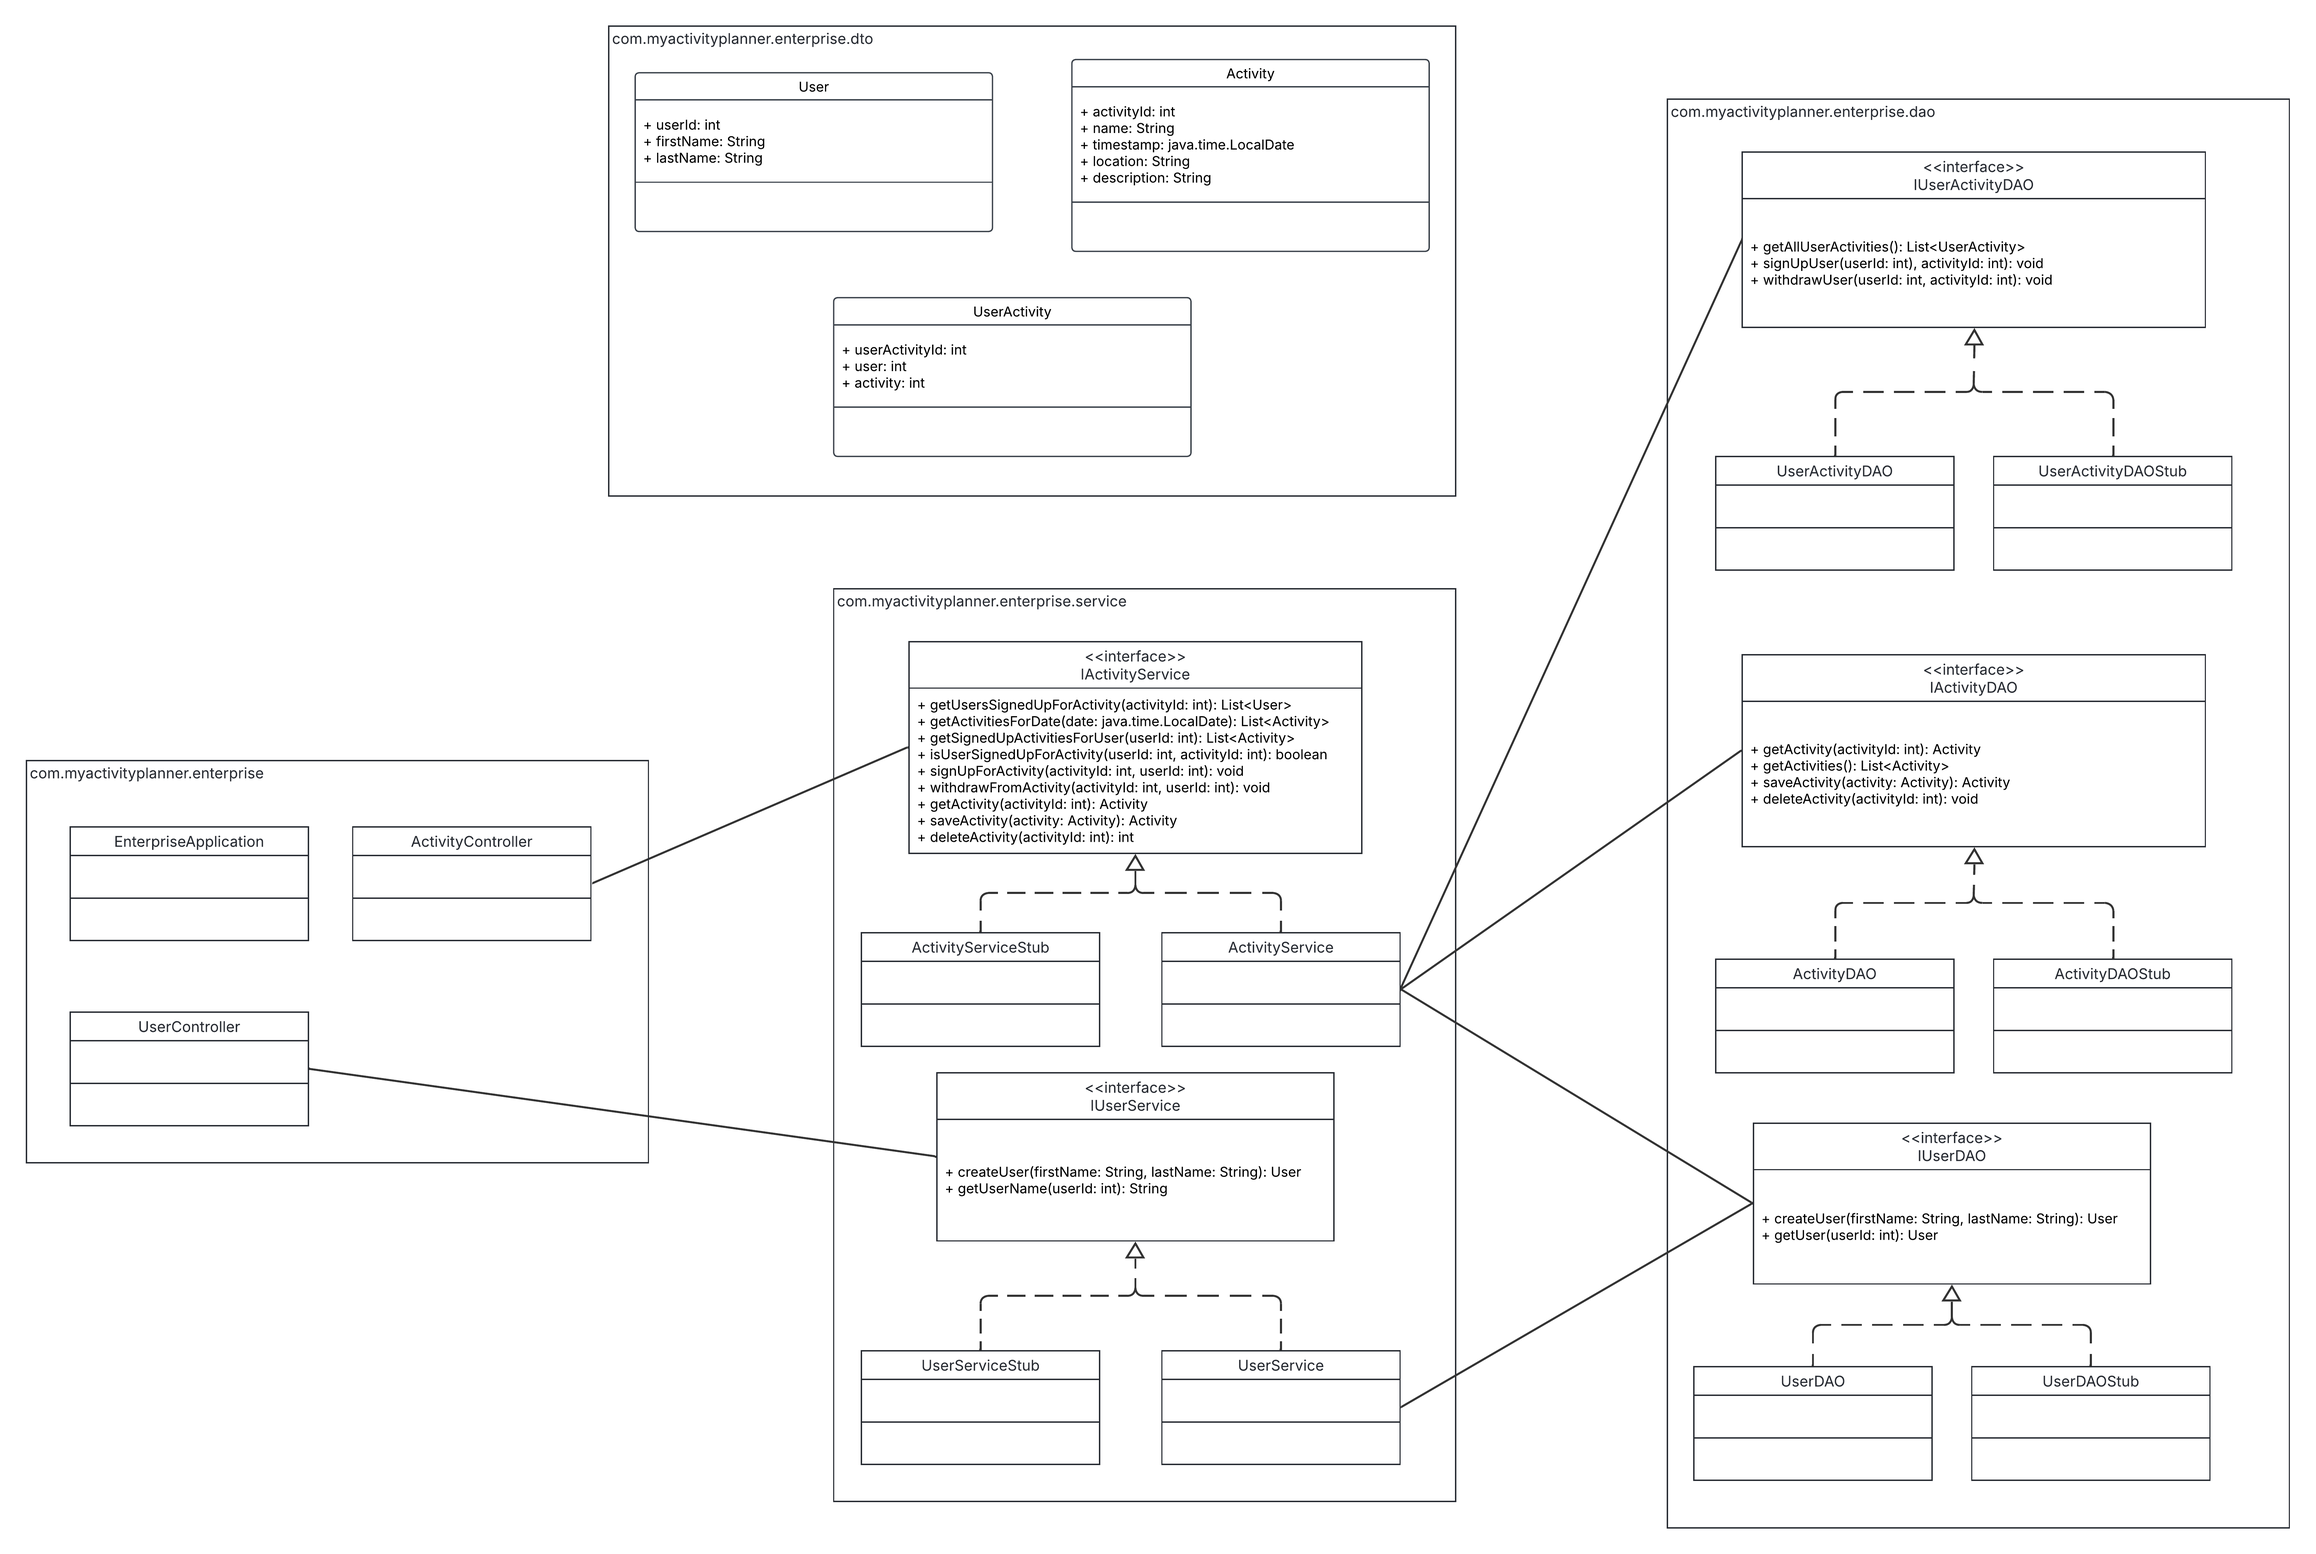
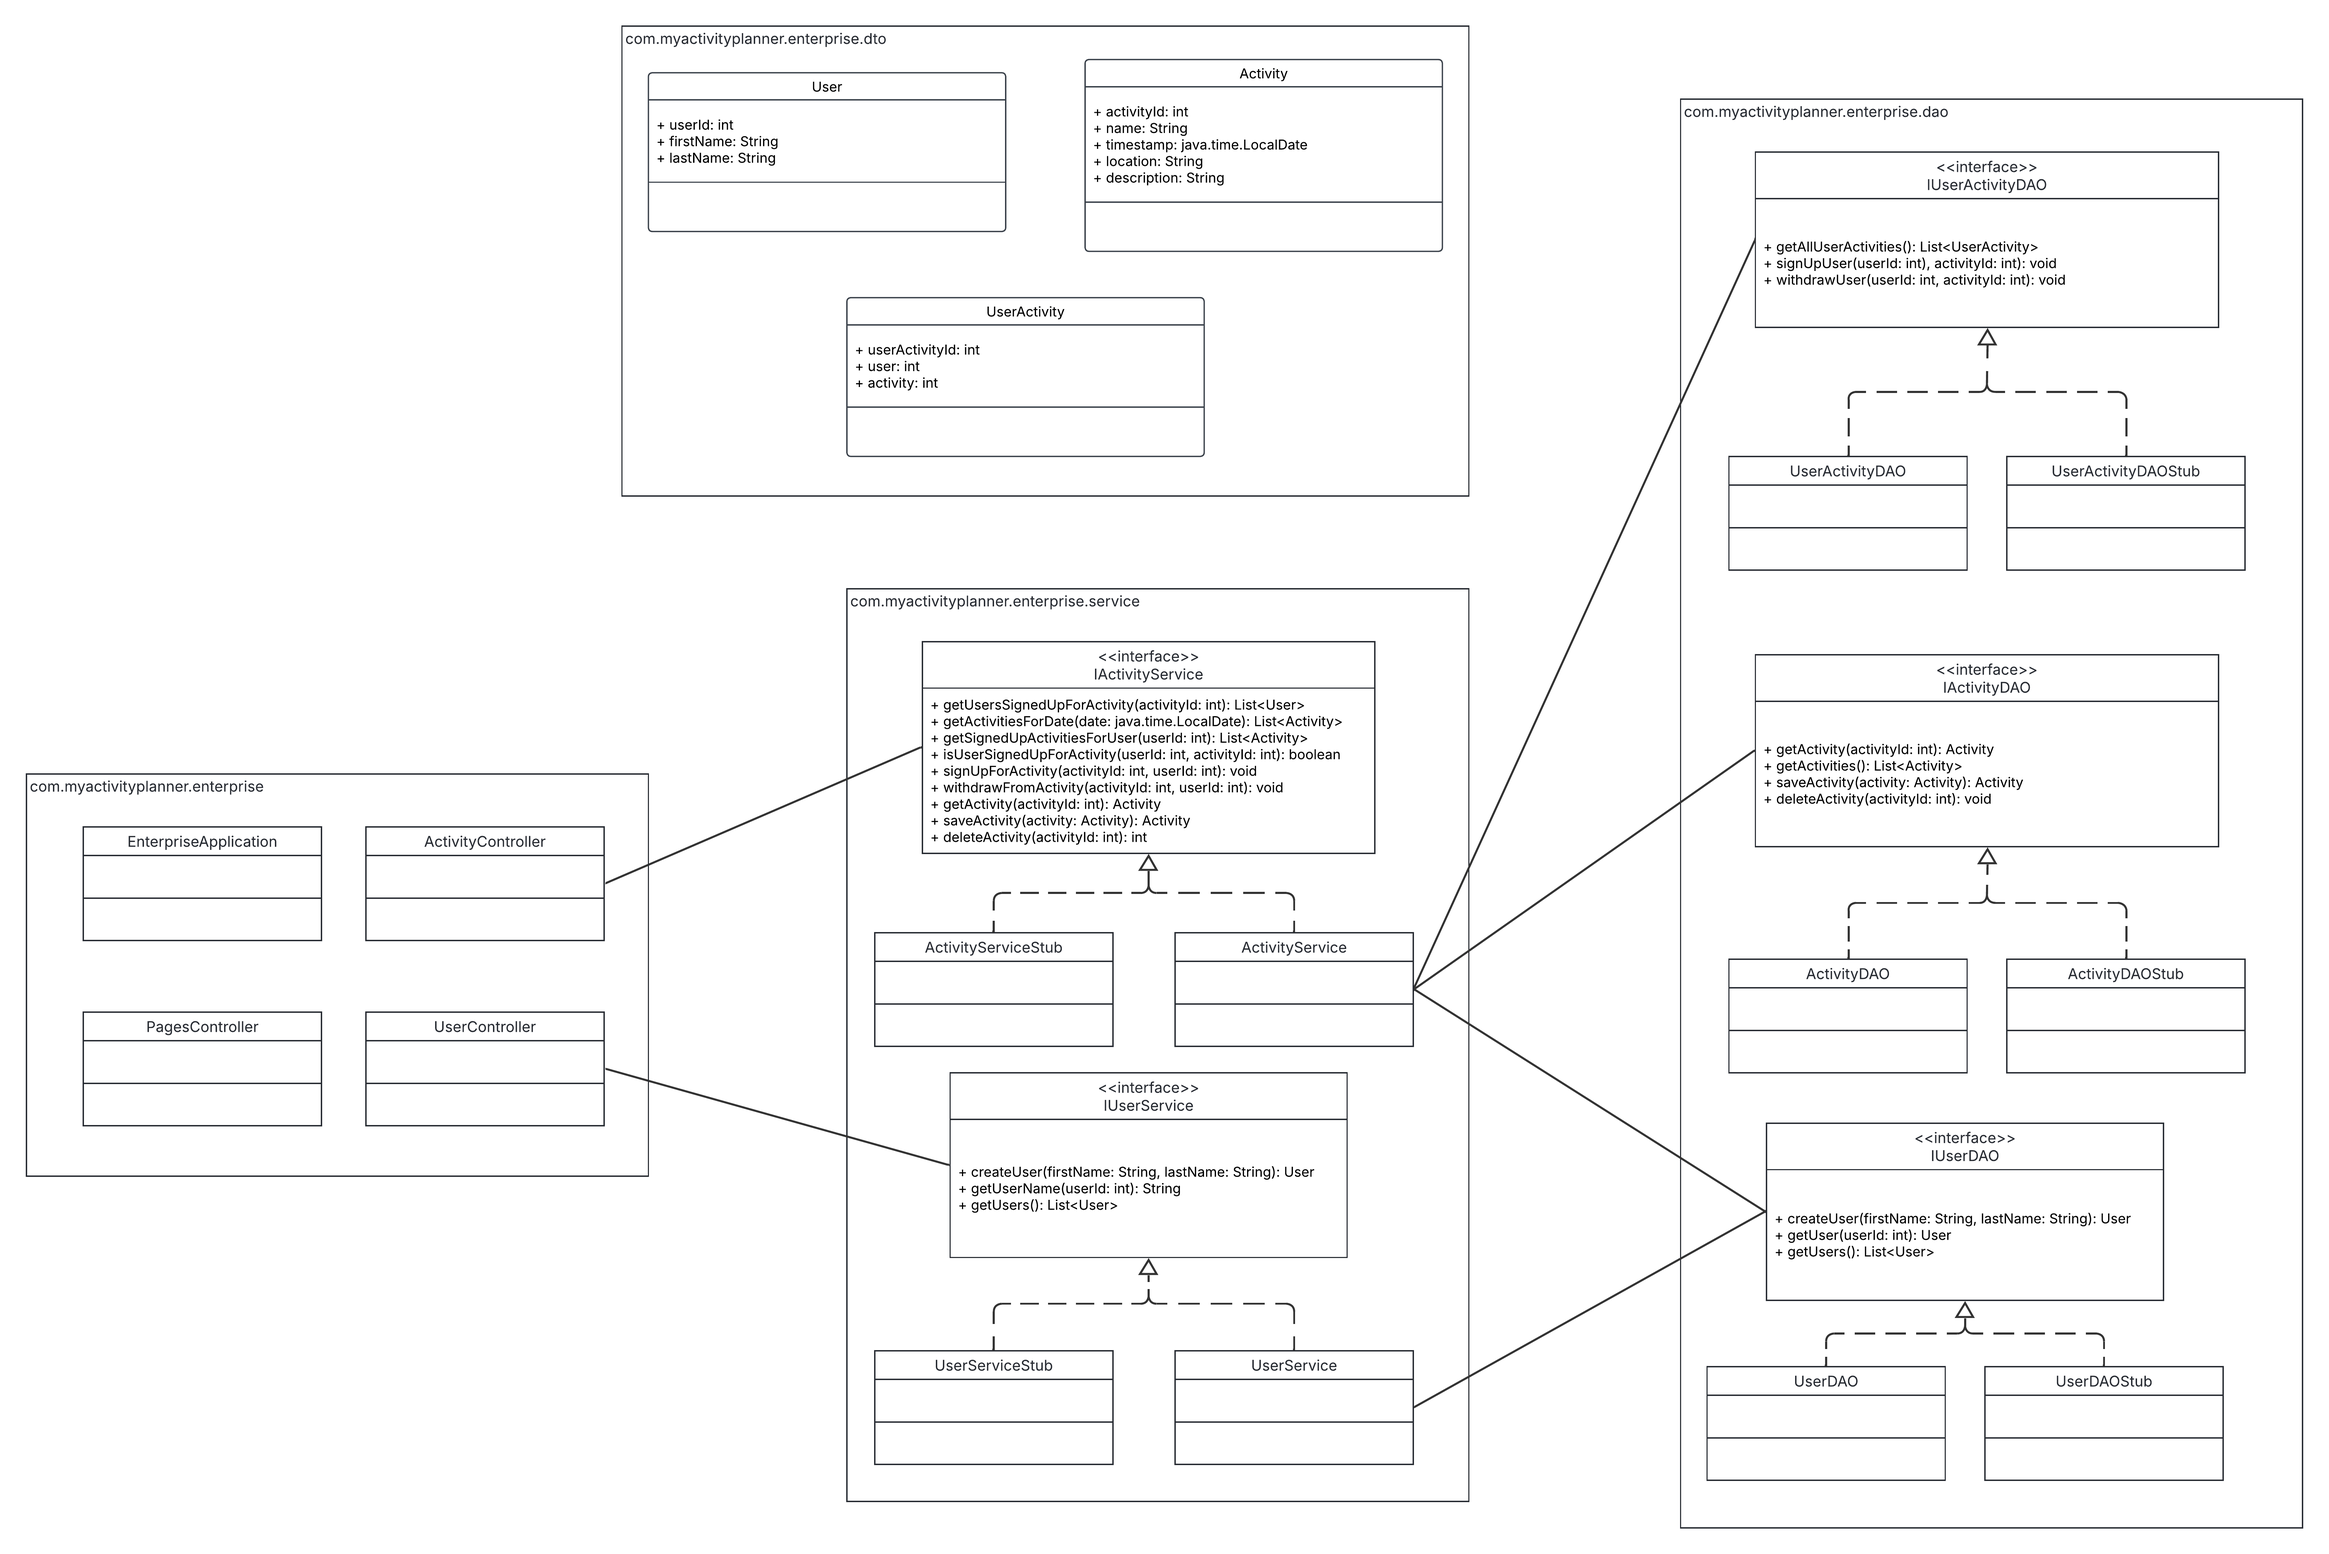
Create method to get all users (#59)

diff --git a/src/main/java/com/myactivityplanner/enterprise/service/UserServiceStub.java b/src/main/java/com/myactivityplanner/enterprise/service/UserServiceStub.java
@@ -3,6 +3,8 @@ package com.myactivityplanner.enterprise.service;
 import com.myactivityplanner.enterprise.dto.User;
 import org.springframework.stereotype.Service;
 
+import java.util.List;
+
 @Service
 public class UserServiceStub implements IUserService {
 
@@ -17,5 +19,18 @@ public class UserServiceStub implements IUserService {
     @Override
     public String getUserName(int userId) {
         return "TestUser Name";
+    }
+
+    @Override
+    public List<User> getUsers() {
+        User user1 = new User();
+        user1.setFirstName("John");
+        user1.setLastName("Doe");
+
+        User user2 = new User();
+        user2.setFirstName("Jane");
+        user2.setLastName("Doe");
+
+        return List.of(user1, user2);
     }
 }

diff --git a/src/main/java/com/myactivityplanner/enterprise/dao/UserDAO.java b/src/main/java/com/myactivityplanner/enterprise/dao/UserDAO.java
@@ -5,6 +5,7 @@ import org.springframework.beans.factory.annotation.Autowired;
 import org.springframework.stereotype.Repository;
 
 import java.io.IOException;
+import java.util.List;
 
 @Repository("userDAO")
 public class UserDAO implements IUserDAO {
@@ -24,5 +25,10 @@ public class UserDAO implements IUserDAO {
     @Override
     public User getUser(int userId) throws IOException {
         return userRepository.findById(userId).orElse(null);
+    }
+
+    @Override
+    public List<User> getUsers() throws IOException {
+        return (List<User>) userRepository.findAll();
     }
 }

diff --git a/src/main/java/com/myactivityplanner/enterprise/dao/UserDAOStub.java b/src/main/java/com/myactivityplanner/enterprise/dao/UserDAOStub.java
@@ -3,7 +3,9 @@ package com.myactivityplanner.enterprise.dao;
 import com.myactivityplanner.enterprise.dto.User;
 import org.springframework.stereotype.Repository;
 
+import java.util.ArrayList;
 import java.util.HashMap;
+import java.util.List;
 import java.util.Map;
 
 @Repository
@@ -23,5 +25,10 @@ public class UserDAOStub implements IUserDAO {
     @Override
     public User getUser(int userId) {
         return users.get(userId);
+    }
+
+    @Override
+    public List<User> getUsers() {
+        return new ArrayList<>(users.values());
     }
 }

diff --git a/src/main/java/com/myactivityplanner/enterprise/service/IUserService.java b/src/main/java/com/myactivityplanner/enterprise/service/IUserService.java
@@ -2,6 +2,8 @@ package com.myactivityplanner.enterprise.service;
 
 import com.myactivityplanner.enterprise.dto.User;
 
+import java.util.List;
+
 public interface IUserService {
     /**
      * Create a new user
@@ -19,4 +21,11 @@ public interface IUserService {
      * @throws Exception If an error occurs
      */
     String getUserName(int userId) throws Exception;
+
+    /**
+     * Get the list of all users
+     * @return A list of all users
+     * @throws Exception If an error occurs
+     */
+    List<User> getUsers() throws Exception;
 }

diff --git a/src/main/java/com/myactivityplanner/enterprise/service/UserService.java b/src/main/java/com/myactivityplanner/enterprise/service/UserService.java
@@ -5,6 +5,8 @@ import com.myactivityplanner.enterprise.dto.User;
 import org.springframework.beans.factory.annotation.Autowired;
 import org.springframework.stereotype.Service;
 
+import java.util.List;
+
 @Service
 public class UserService implements IUserService {
     @Autowired
@@ -23,5 +25,10 @@ public class UserService implements IUserService {
         }
 
         return user.getFirstName() + " " + user.getLastName();
+    }
+
+    @Override
+    public List<User> getUsers() throws Exception {
+        return userDAO.getUsers();
     }
 }

diff --git a/src/main/java/com/myactivityplanner/enterprise/dao/IUserDAO.java b/src/main/java/com/myactivityplanner/enterprise/dao/IUserDAO.java
@@ -3,6 +3,7 @@ package com.myactivityplanner.enterprise.dao;
 import com.myactivityplanner.enterprise.dto.User;
 
 import java.io.IOException;
+import java.util.List;
 
 public interface IUserDAO {
     /**
@@ -21,4 +22,11 @@ public interface IUserDAO {
      * @throws IOException If a database error occurs
      */
     User getUser(int userId) throws IOException;
+
+    /**
+     * Get all users
+     * @return A list of all users
+     * @throws IOException If a database error occurs
+     */
+    List<User> getUsers() throws IOException;
 }
